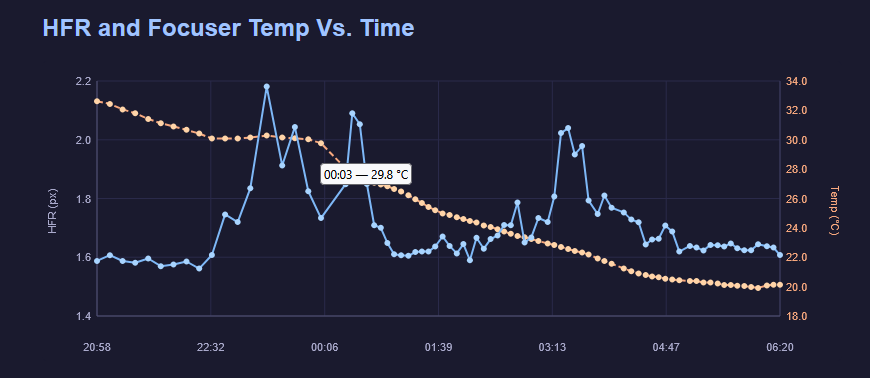
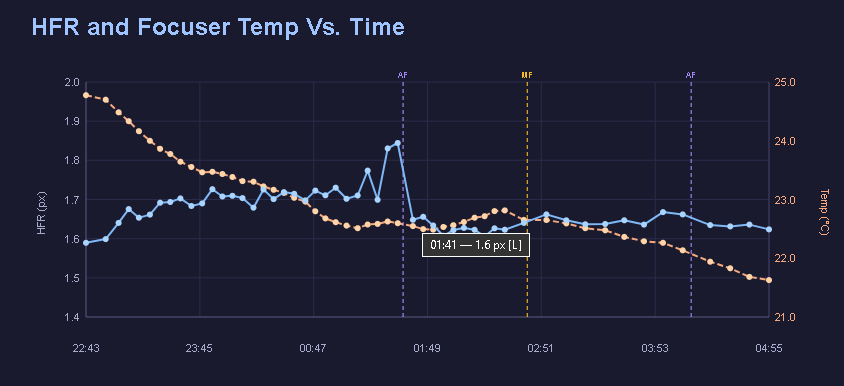
docs: update for v2.10.0 features
- metric-charts.md: add Median ADU metric, new Event Markers section,
  filter name in tooltip example, Sky background config example,
  clarify 4-chart limit
- overhead-breakdown.md: add Skipped Exposure category, expand Meridian
  Flip row, rewrite roof-closed note to cover both Yield and Overhead
  Accounted, update coverage formula with effective window step and
  session boundary constraint
- settings-reference.md: add 3 event marker toggle rows to Metric Chart
  Settings table, clarify 4-chart limit
- Updated screenshots: metric-chart.png, settings-full.png, settings-page.png

diff --git a/docs/overhead-breakdown.md b/docs/overhead-breakdown.md
@@ -45,7 +45,7 @@ Each overhead category with:
 | **Centering** | Center and CenterAndRotate operations |
 | **Image Save** | Async image save operations (measured from NINA's ImageSaveController). These typically overlap with the next exposure. |
 | **Slew** | Telescope slew operations (SlewScopeToRaDec, SlewScopeToAltAz) |
-| **Meridian Flip** | Meridian flip operations |
+| **Meridian Flip** | Meridian flip operations, including trigger-based flips that NINA handles internally (detected from AscomTelescope meridian flip log lines) |
 | **Guiding** | StartGuiding and StopGuiding operations |
 | **Mount Ops** | Park, unpark, find home, set tracking |
 | **Dome Sync** | Dome synchronization |
@@ -55,9 +55,10 @@ Each overhead category with:
 | **Rotator** | Mechanical rotator moves |
 | **Switch** | USB switch value changes |
 | **Safety Wait** | WaitUntilSafe operations (waiting for conditions to be safe) |
+| **Skipped Exposure** | Exposures aborted mid-capture by quality triggers (e.g. guiding RMS threshold). Weather-aborted exposures are excluded from this category. |
 
 {: .note }
-> Safety Wait time appears as an overhead category here so you can see how much time was lost to unsafe conditions. However, the **Yield** percentage (in the session overview) excludes roof-closed time from the effective imaging window — so unsafe weather doesn't penalize your yield score.
+> Both the **Yield** percentage and the **Overhead Accounted** calculation exclude roof-closed (unsafe) time from their windows — so cloudy nights and safety events don't penalize your yield or inflate your unaccounted overhead. If an exposure was in progress when the roof closed, that partial exposure time is treated as weather-lost (not overhead and not integration).
 
 ## How Coverage Is Calculated
 
@@ -68,10 +69,13 @@ The parser uses **merged intervals** to calculate total overhead, not simple sum
 
 To calculate coverage percentage:
 
-1. **Imaging window** = time from first parsed event to last parsed event
-2. **Implied overhead** = imaging window minus total exposure time
-3. **Merged overhead** = all overhead intervals merged to remove overlaps
-4. **Coverage** = merged overhead / implied overhead (capped at 100%)
+1. **Imaging window** = time from first parsed event to last parsed event, bounded by the Night Summary session start and end instructions
+2. **Effective window** = imaging window minus any roof-closed (unsafe) periods
+3. **Implied overhead** = effective window minus total exposure time
+4. **Merged overhead** = all overhead intervals merged to remove overlaps, with events inside roof-closed periods excluded
+5. **Coverage** = merged overhead / implied overhead (capped at 100%)
+
+The log parser only looks at log lines between the Night Summary Start and Night Summary End sequence instructions, so events from other sequences or sessions don't leak into the calculation.
 
 ## Yield Cross-Validation
 

diff --git a/docs/metric-charts.md b/docs/metric-charts.md
@@ -56,13 +56,29 @@ All of these can be used as primary metric, secondary metric, or X-axis:
 | **Star Count** | | Number of stars detected in each frame |
 | **Azimuth** | degrees | Target azimuth |
 | **Seeing FWHM** | arcsec | Atmospheric seeing measurement. Requires an ASCOM-compatible seeing monitor connected as a NINA weather data source. |
+| **Median ADU** | ADU | Image median pixel value. Useful for tracking sky background brightness changes throughout a session (e.g. moonrise, twilight). |
 
 {: .note }
 > Metrics that require external hardware or plugins will show no data if the equipment isn't connected. The chart simply omits data points where the metric value is zero or missing.
 
+## Event Markers
+
+When the X-axis is set to **Time**, you can overlay vertical dashed lines on the chart marking specific events that occurred during the session:
+
+| Marker | Label | Color | Triggered by |
+|--------|-------|-------|--------------|
+| **AutoFocus** | AF | Purple | Each AutoFocus run |
+| **Meridian Flip** | MF | Amber | Meridian flip events |
+| **Safe** | S | Green | Safety monitor transitions to Safe |
+| **Unsafe** | US | Red | Safety monitor transitions to Unsafe |
+
+Each marker type can be toggled independently in **Options → Metric Chart Settings** (see the Settings Reference for exact toggle names). The colors match the markers shown on the session event timeline at the top of the report.
+
+Hover over any marker to see a tooltip with the event description and timestamp. Markers are only displayed when the chart's X-axis is set to Time — they don't appear for Frame Index or metric x-axes.
+
 ## Additional Charts
 
-You can add more charts beyond the primary one:
+You can add up to 4 additional charts beyond the primary one:
 
 1. Click **+ Add Chart** in the settings
 2. Configure the primary metric, secondary metric, and X-axis for the new chart
@@ -72,7 +88,7 @@ Each additional chart has its own independent metric selections. This lets you c
 
 ## Chart Interaction
 
-In the HTML report, chart data points show **hover tooltips** with the exact timestamp and value. This makes it easy to identify specific frames with unusual values.
+In the HTML report, chart data points show **hover tooltips** with the exact timestamp, metric value, and the filter used for that exposure (e.g. `22:15 — 1.67 px [Ha]`). This makes it easy to identify specific frames with unusual values or spot filter-specific patterns.
 
 ## Common Chart Configurations
 
@@ -86,3 +102,4 @@ Here are some useful metric combinations to try:
 | **Star count consistency** | Star Count | Humidity | Time |
 | **Altitude effects** | HFR | Airmass | Altitude |
 | **Seeing conditions** | FWHM | Wind Speed | Time |
+| **Sky background** | Median ADU | — | Time |

diff --git a/docs/settings-reference.md b/docs/settings-reference.md
@@ -78,7 +78,10 @@ Available at **Full** detail level when the metric chart is enabled. See [Metric
 | X-Axis | Time | What the horizontal axis represents |
 | Primary Metric | HFR | The main metric plotted |
 | Secondary Metric | None | Optional second metric on a separate Y-axis |
-| Additional Charts | (none) | Add extra charts with independent metric selections |
+| Additional Charts | (none) | Add up to 4 extra charts with independent metric selections |
+| Show AutoFocus Markers | On | Overlay purple AF markers on the chart at each AutoFocus run (Time x-axis only) |
+| Show Meridian Flip Markers | On | Overlay amber MF markers at meridian flip events (Time x-axis only) |
+| Show Roof Markers | Off | Overlay green/red S/US markers at safety monitor state changes (Time x-axis only) |
 
 ---
 
